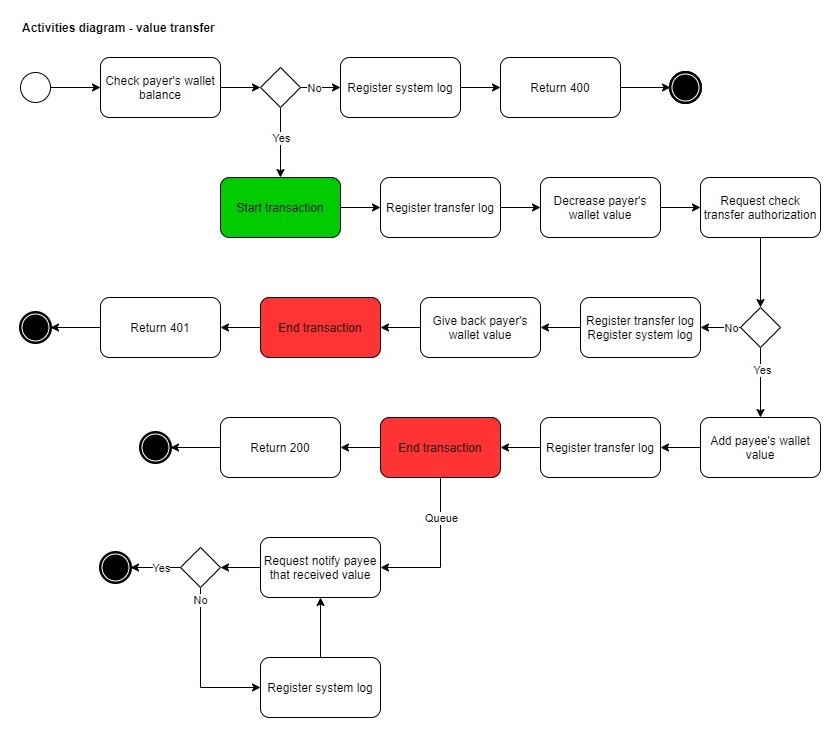
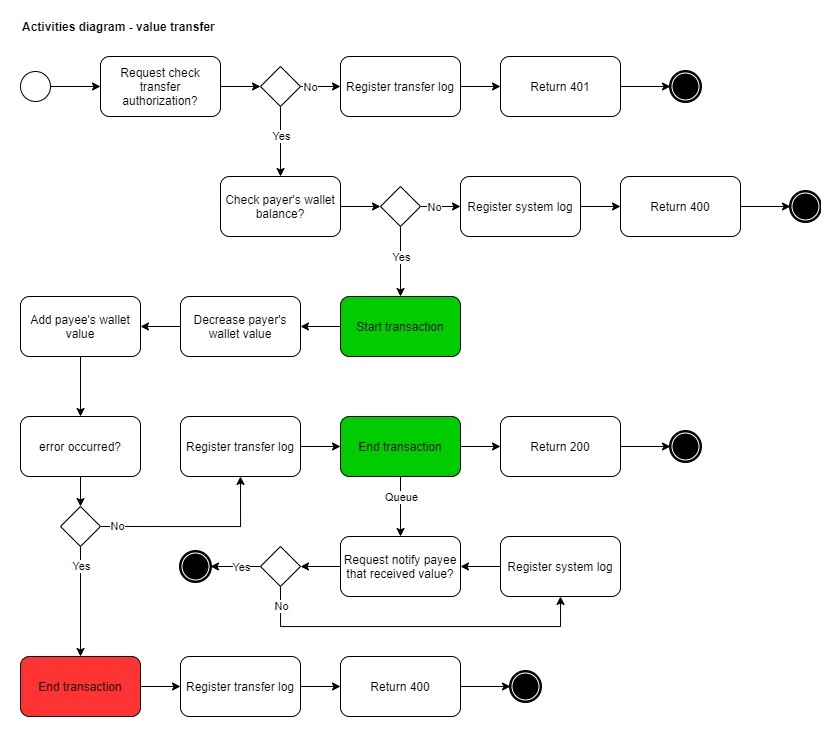
feat/include middleware transfer auth

diff --git a/README.md b/README.md
@@ -36,9 +36,15 @@ Some flow diagrams can help you to understand the application proposal.
 |GET    |`.../detail-transfers` |`user email`|
 
 ---
+## Middleware 🔞
+
+### TransferAuth
+
+---
 ## Controllers 🎮
 
 ### TransferController
+
 ---
 ## Services 💰
 
